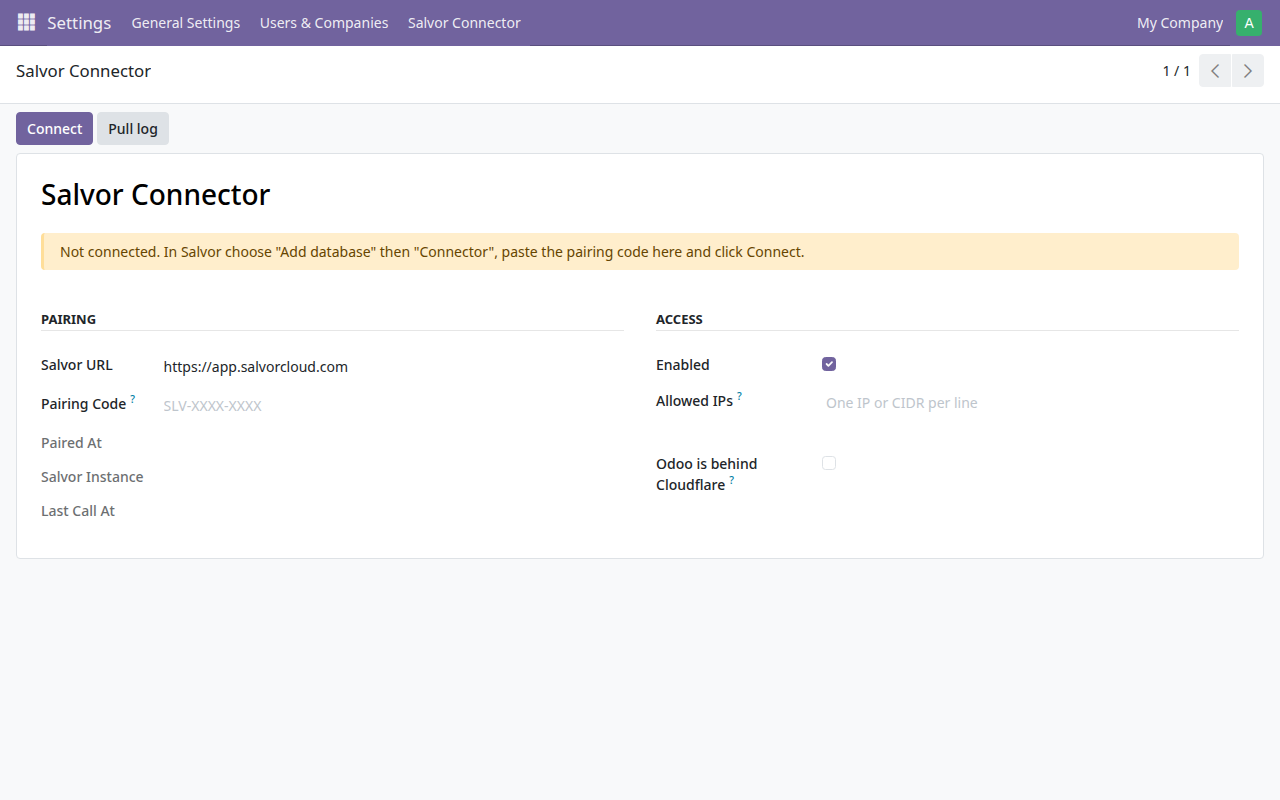
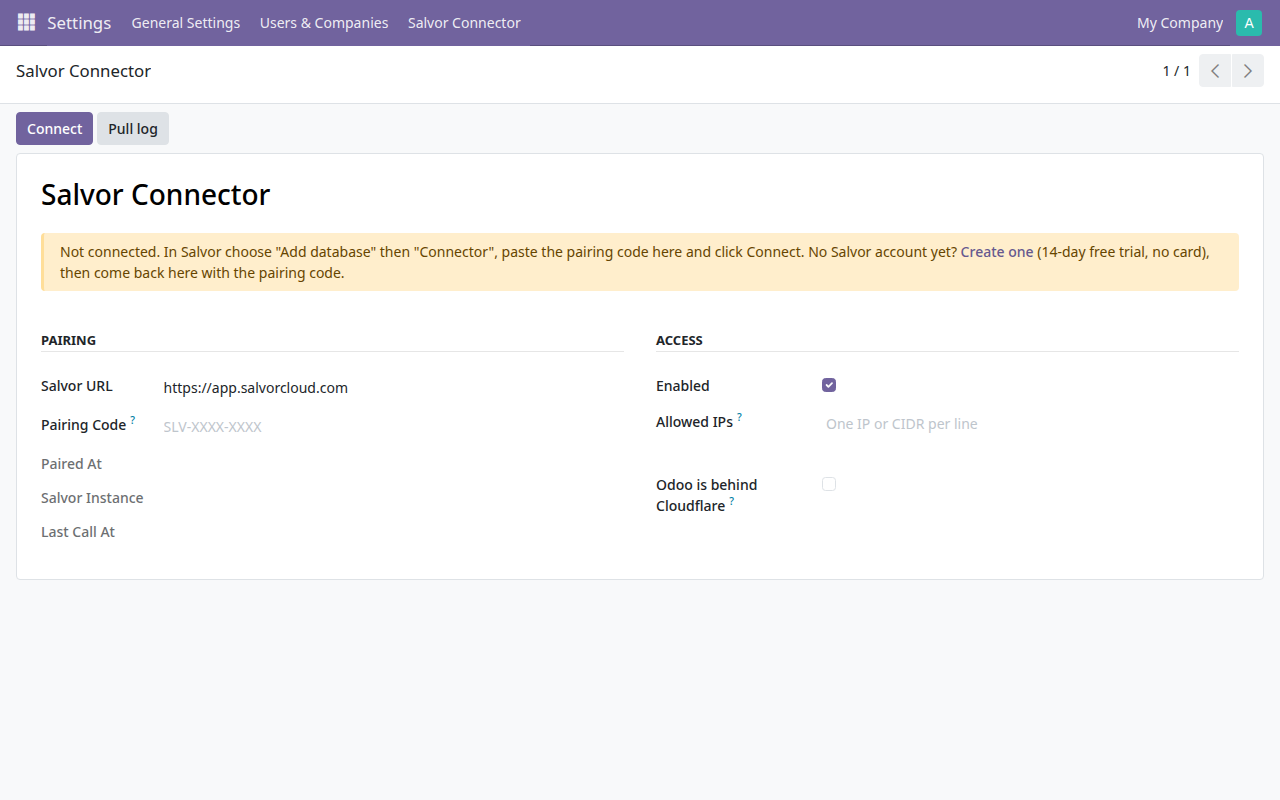
[REL] salvor_connector 2.0.14: store listing, description page, images, a sign-up sentence
No change to how the module works: the Python, controllers, background job,
security rules, data files and cron are those of 2.0.13.

- Manifest: new name ('Salvor Connector: Off-site Database Backup without the
  Master Password') and summary, the website link with a source tag, seven
  images in the store's order (a 2:1 cover first), version 19.0.2.0.14.
- static/description/index.html: new sections at the top (what the free module
  does, what a Salvor account adds, restore drills, get started, screenshots);
  the technical sections are unchanged; Odoo 16 mentions removed on this
  branch; the upgrade steps are a last 'Upgrading' item.
- Images: banner_offsite_backup.png (1280x640); screenshot_5_salvor_backups.png
  and screenshot_6_stale_alert.png (new, taken on a local test stack with demo
  data only: 'Demo Trading' / demo_main); screenshot_1_settings_unpaired.png
  taken again with the new sentence.
- Settings form, 'Not connected' notice: one added sentence with a link that
  opens in a new tab: 'No Salvor account yet? Create one (14-day free trial,
  no card), then come back here with the pairing code.' Text and link only.
- docs/release/2.0.14.md, the tags table, and the 'latest version' lines of
  SECURITY.md.

Against marketing's page text, one sentence and one caption differ: the Pull
Log is said to list 'Salvor's calls, and refusals', not 'every call ... and
every refusal' (successful status polls are not logged one by one, and
[…]

diff --git a/salvor_connector/static/description/index.html b/salvor_connector/static/description/index.html
@@ -8,28 +8,62 @@
 <section class="oe_container">
     <div class="oe_row oe_spaced">
         <div class="oe_span12">
+            <img src="banner_offsite_backup.png" alt="Off-site backups of your Odoo database, pulled by Salvor without the master password"
+                 style="max-width:100%;border-radius:6px;margin-bottom:16px;"/>
+
+            <h4 style="color:#0d9488;">What this free module does</h4>
+            <ul>
+                <li>Gives Salvor one narrow way to take a backup of <b>this one database</b>, and nothing else.</li>
+                <li>Works with <code>list_db = False</code>. Never asks for, stores or sends the master password.</li>
+                <li>Refuses every request until it is paired, then checks the access token and the caller's address
+                    on every call.</li>
+                <li>Lists Salvor's calls, and refusals, in a Pull Log inside Odoo.</li>
+                <li>On its own it takes no backup and sends no data. It needs a Salvor account.</li>
+            </ul>
+
+            <h4 style="color:#0d9488;">What your Salvor account adds</h4>
+            <ul>
+                <li>Salvor is a paid service, from $190 a year (Solo plan, billed yearly), with a 14-day free trial
+                    and no card.</li>
+                <li>Backups on your schedule, pulled from outside and stored off your server, in the EU (Amsterdam /
+                    Backblaze EU Central).</li>
+                <li>Every archive checked when it arrives: error pages and JSON answers are refused, every file in
+                    the zip is CRC-checked, the manifest is read, and a SHA-256 is recorded. A backup that fails the
+                    check is rejected, not stored.</li>
+                <li>A warning when a backup is much bigger or smaller than the one before.</li>
+                <li>An alert when backups stop arriving, by e-mail on every plan (Telegram on Partner and up).</li>
+                <li>Retention rules: keep N days, the last N copies, or both.</li>
+                <li>Every archive downloadable, in Odoo's own formats: the standard backup zip (<code>dump.sql</code>,
+                    <code>filestore/</code>, <code>manifest.json</code>) or a PostgreSQL custom-format dump. Both
+                    restore with Odoo's own tools.</li>
+            </ul>
+
+            <h4 style="color:#0d9488;">Restore drills</h4>
             <p>
-                Always use the latest version. If you are upgrading from 1.0.0, 2.0.0 or 2.0.1, pair the module
-                again after upgrading. Details:
-                <a href="https://github.com/ProjoMania/salvor_connector/blob/19.0/SECURITY.md">SECURITY.md</a>
-                (github.com/ProjoMania/salvor_connector).
+                This module takes backups. Restore drills run on your own server and need a master-password or SSH
+                connection to Salvor (SSH is on the Fleet plan).
             </p>
 
-            <img src="screenshot_2_settings_connected.png" alt="Salvor Connector settings, connected to Salvor"
-                 style="max-width:100%;border:1px solid #e5e7eb;border-radius:6px;margin-bottom:16px;"/>
+            <h4 style="color:#0d9488;">Get started</h4>
+            <ol>
+                <li>Create a Salvor account at salvorcloud.com (14-day free trial, no card).</li>
+                <li>In Salvor choose <i>Add database &rarr; Connector</i>. Salvor shows a pairing code
+                    (<code>SLV-XXXX-XXXX</code>), valid for 10 minutes, usable once.</li>
+                <li>Install this module in the database you want backed up. In Odoo open
+                    <i>Settings &rarr; Salvor Connector &rarr; Settings</i>, paste the code and click <b>Connect</b>.
+                    Developer mode is not needed.</li>
+                <li>Salvor tests the connection, and the result shows on that form.</li>
+            </ol>
+            <p>Behind Cloudflare or your own proxy: see <i>Works on hardened servers</i> below.</p>
 
-            <h4 style="color:#0d9488;">What it is</h4>
+            <h4 style="color:#0d9488;">Screenshots</h4>
             <p>
-                Salvor (<a href="https://salvorcloud.com">salvorcloud.com</a>) keeps a second, independent copy of
-                your Odoo databases off your host and alerts you from outside when backups stop. This small, free
-                module lets Salvor take that copy of <b>this one database</b>. It does not need your master
-                password, and it does not need the database manager to be switched on.
-            </p>
-            <p>
-                The module is useful only with a Salvor account. On its own it does nothing: it takes no backup by
-                itself, sends no data, and refuses every request until it is paired. <b>It does not perform restore
-                drills; it takes backups.</b> Salvor checks each archive's integrity (sha256); restore drills need a
-                master-password or SSH connection.
+                <img src="screenshot_2_settings_connected.png" alt="Connected: Salvor can now take backups of this database, and only from its allowed address" style="max-width:100%;border:1px solid #e5e7eb;border-radius:6px;margin-bottom:12px;"/>
+                <img src="screenshot_5_salvor_backups.png" alt="In Salvor: each backup with its time, size and check result" style="max-width:100%;border:1px solid #e5e7eb;border-radius:6px;margin-bottom:12px;"/>
+                <img src="screenshot_6_stale_alert.png" alt="When backups stop arriving, Salvor tells you" style="max-width:100%;border:1px solid #e5e7eb;border-radius:6px;margin-bottom:12px;"/>
+                <img src="screenshot_1_settings_unpaired.png" alt="Before pairing: paste the code from Salvor and click Connect" style="max-width:100%;border:1px solid #e5e7eb;border-radius:6px;margin-bottom:12px;"/>
+                <img src="screenshot_3_pull_log.png" alt="Pull Log: the calls Salvor made to this database, and the refusals" style="max-width:100%;border:1px solid #e5e7eb;border-radius:6px;margin-bottom:12px;"/>
+                <img src="screenshot_4_settings_menu.png" alt="Find it under Settings &gt; Salvor Connector" style="max-width:100%;border:1px solid #e5e7eb;border-radius:6px;margin-bottom:12px;"/>
             </p>
 
             <h4 style="color:#0d9488;">The problem it solves</h4>
@@ -58,16 +92,6 @@
                     to delete the file.</li>
             </ol>
             <p>Your server never opens a connection to Salvor for a backup. Salvor asks; the module answers or refuses.</p>
-
-            <h4 style="color:#0d9488;">Screenshots</h4>
-            <p>
-                <img src="screenshot_1_settings_unpaired.png" alt="Settings before pairing: Salvor URL and pairing code"
-                     style="max-width:100%;border:1px solid #e5e7eb;border-radius:6px;margin-bottom:12px;"/>
-                <img src="screenshot_3_pull_log.png" alt="Pull Log: every call Salvor made and every refusal"
-                     style="max-width:100%;border:1px solid #e5e7eb;border-radius:6px;margin-bottom:12px;"/>
-                <img src="screenshot_4_settings_menu.png" alt="Settings menu with the Salvor Connector entry"
-                     style="max-width:100%;border:1px solid #e5e7eb;border-radius:6px;margin-bottom:12px;"/>
-            </p>
 
             <h4 style="color:#0d9488;">What the token can do</h4>
             <p>With a valid token, from an allowed IP address, while the Connector is enabled:</p>
@@ -166,11 +190,11 @@
 
             <h4 style="color:#0d9488;">Requirements</h4>
             <ul>
-                <li>Self-hosted Odoo 16, 17, 18, 19 or 20 <b>on Linux</b> (Community or Enterprise). Not Odoo Online;
+                <li>Self-hosted Odoo 17, 18, 19 or 20 <b>on Linux</b> (Community or Enterprise). Not Odoo Online;
                     Odoo.sh is not a supported target.</li>
                 <li><code>pg_dump</code> on the Odoo server, same or newer major version than PostgreSQL.</li>
                 <li>Odoo reachable over HTTPS from Salvor, with <code>web.base.url</code> set to its public
-                    <code>https://</code> address. On Odoo 16, 17 and 18 the URL must lead to exactly one database.</li>
+                    <code>https://</code> address. On Odoo 17 and 18 the URL must lead to exactly one database.</li>
                 <li>Behind Cloudflare: switch on <b>Odoo is behind Cloudflare</b> in the module's settings (off by
                     default), or restore visitor addresses at your own proxy. With the switch on, the address check
                     trusts Cloudflare's <code>CF-Connecting-IP</code> header; the access token is required either way.
@@ -182,6 +206,13 @@
                 <li>Free disk in the Odoo data directory: database size (+ filestore for the zip format) + 256 MiB.</li>
                 <li>Each download piece is a normal Odoo request bound by <code>limit_time_real</code>; on a link slower
                     than about 2 MiB/s, raise it.</li>
+                            <li><b>Upgrading:</b> always run the latest version. To upgrade, install the new version (from this
+                    page or from your branch on GitHub), restart Odoo, then upgrade the module (<i>Apps &gt; Upgrade</i>,
+                    or <code>-u salvor_connector</code>). If you are upgrading from 1.0.0, 2.0.0 or 2.0.1, also pair
+                    again afterwards: take a new pairing code in Salvor and click <b>Connect</b> on the module's settings
+                    form. Salvor does not work with versions below 2.0.2. Details:
+                    <a href="https://github.com/ProjoMania/salvor_connector/blob/19.0/SECURITY.md">SECURITY.md</a>
+                    (github.com/ProjoMania/salvor_connector).</li>
             </ul>
 
             <p>

diff --git a/salvor_connector/__manifest__.py b/salvor_connector/__manifest__.py
@@ -1,10 +1,10 @@
 {
-    "name": "Salvor Connector",
-    "summary": "Back up this Odoo database to Salvor without the master password",
-    "version": "19.0.2.0.13",
+    "name": "Salvor Connector: Off-site Database Backup without the Master Password",
+    "summary": "Automatic backup of this database, off-site and with verification, through a Salvor account (free trial). No master password; works with list_db = False.",
+    "version": "19.0.2.0.14",
     "category": "Administration/Tools",
     "author": "ProjoMania",
-    "website": "https://salvorcloud.com",
+    "website": "https://salvorcloud.com/?utm_source=odoo-apps&utm_medium=marketplace&utm_campaign=connector-listing",
     "support": "support@salvorcloud.com",
     "license": "LGPL-3",
     "depends": ["base"],
@@ -16,7 +16,10 @@
         "views/salvor_connector_config_views.xml",
     ],
     "images": [
+        "static/description/banner_offsite_backup.png",
         "static/description/screenshot_2_settings_connected.png",
+        "static/description/screenshot_5_salvor_backups.png",
+        "static/description/screenshot_6_stale_alert.png",
         "static/description/screenshot_1_settings_unpaired.png",
         "static/description/screenshot_3_pull_log.png",
         "static/description/screenshot_4_settings_menu.png",

diff --git a/docs/release/2.0.14.md b/docs/release/2.0.14.md
@@ -1,0 +1,40 @@
+# Salvor Connector 2.0.14
+
+**No change to how the module works.** The backup, pairing, token and allowlist code is the code of
+2.0.13, byte for byte. This release changes what the store page and the settings form say.
+
+Upgrading from 2.0.13 is optional. If you are on anything older, read `docs/release/2.0.13.md` first.
+
+## What changed
+
+- **Store listing.** New module title ("Salvor Connector: Off-site Database Backup without the Master
+  Password") and summary, so the module can be found by what it does; the store searches the title and
+  the summary only. The menu, the form title and the views keep the name "Salvor Connector".
+- **Description page.** The opening line about the Pull Log now says what the technical section says
+  (Salvor's calls and refusals, not "every" one). New sections at the top: what this free module does, what a Salvor account adds
+  (Salvor is a paid service with a free trial), where restore drills run, and how to get started. The
+  technical sections are unchanged. The Odoo 16 mentions are gone from this branch's page (16.0 has its
+  own branch), and the upgrade steps moved into a last "Upgrading" item.
+- **Images.** A 2:1 cover and two new screenshots (the backups of a database in Salvor, and the e-mail
+  Salvor sends when backups stop arriving). `screenshot_1_settings_unpaired.png` was taken again.
+- **Settings form, before pairing.** The "Not connected" notice now ends with: "No Salvor account yet?
+  Create one (14-day free trial, no card), then come back here with the pairing code." "Create one" is
+  a link to salvorcloud.com that opens in a new tab. The module itself still makes no call to that
+  address: it is a link a person may click.
+- **Website field.** The manifest's `website` carries a source tag
+  (`?utm_source=odoo-apps&utm_medium=marketplace&utm_campaign=connector-listing`), and the link in the
+  settings form carries `utm_source=odoo-module`. Both lead to https://salvorcloud.com/ and carry a tag
+  that says where the visit came from (the store listing or the module's settings form), which Salvor's
+  site passes on to sign-up. Nothing about your Odoo is in them.
+
+## What did not change
+
+Python, controllers, the background job, security rules, data files, cron, the protocol, the token and
+the IP allowlist. `git diff 19.0-2.0.13 19.0-2.0.14 -- salvor_connector/*.py salvor_connector/controllers
+salvor_connector/models salvor_connector/security salvor_connector/data` shows only the manifest's
+`name`, `summary`, `version`, `website` and `images`.
+
+## Tests
+
+The module's test suite passes on Odoo 17, 18, 19 and 20 with this release (the counts are in the
+release commit message).

diff --git a/SECURITY.md b/SECURITY.md
@@ -36,7 +36,7 @@ affected commits per branch: `docs/release/TAGS.md`. Severity: High (CVSS 3.1 8.
 | Impact | The archive's content reaches `psql`, which runs backslash meta-commands: `\!` runs OS commands as the Odoo service user, `\c` connects to other databases the Odoo role can reach. The archive's SQL also runs with the rights of the role that owns the live database. |
 
 ### What to do
-1. Upgrade to the latest version (2.0.13; 2.0.4 or later fixes the issue) on every database where the module is installed: pull your branch
+1. Upgrade to the latest version (2.0.14; 2.0.13 on `16.0`; 2.0.4 or later fixes the issue) on every database where the module is installed: pull your branch
    (`16.0`, `17.0`, `18.0`, `19.0` or `20.0`), **restart Odoo** (it keeps running the old Python code until it
    is restarted), then upgrade the module (`-u salvor_connector`, or *Upgrade* in Apps).
 2. Until you have upgraded, keep **Allow restore drills** off (Settings → Salvor Connector → Settings
@@ -63,13 +63,13 @@ GitHub advisory: [GHSA-28rv-398c-r5xx](https://github.com/ProjoMania/salvor_conn
 | Impact | Memory and CPU use on the Odoo server from large request bodies (denial of service). No data access. |
 
 ### What to do
-Upgrade to the latest version (2.0.13; 2.0.11 or later has the complete fix): pull your branch, restart
+Upgrade to the latest version (2.0.14; 2.0.13 on `16.0`; 2.0.11 or later has the complete fix): pull your branch, restart
 Odoo, `-u salvor_connector`. Independently of the module, a reverse proxy that limits request bodies
 (nginx `client_max_body_size`) and restricts `/salvor/` to Salvor's IP addresses also contains it.
 
 ## 2.0.12: the IP allowlist trusted `CF-Connecting-IP` by default (changed in 2.0.13)
 
-No advisory number is assigned to this. **Do not use 2.0.12; use 2.0.13.**
+No advisory number is assigned to this. **Do not use 2.0.12; use 2.0.13 or later.**
 
 | | |
 |---|---|

diff --git a/docs/release/TAGS.md b/docs/release/TAGS.md
@@ -30,6 +30,7 @@ the push log (`STATUS.md` deploy rows, GitHub "Activity") before tagging.
 | 2.0.11 (`NN.0.2.0.11`) | `eae9536` → `17.0-2.0.11` | `8b0021e` → `18.0-2.0.11` | `e62697b` → `19.0-2.0.11` | `07c857e` → `20.0-2.0.11` | fixed; chunked + Content-Length, no-database path, 16.0 uninstall (`d738402` → `16.0-2.0.11` on `16.0`) |
 | 2.0.12 (`NN.0.2.0.12`) | `8636f8a` → `17.0-2.0.12` | `f70d57b` → `18.0-2.0.12` | `c2263a0` → `19.0-2.0.12` | `8af7f53` → `20.0-2.0.12` | **superseded: do not use.** Cloudflare header trusted by default; pairing shows a false error (`d62d724` → `16.0-2.0.12` on `16.0`). Use 2.0.13 |
 | 2.0.13 (`NN.0.2.0.13`) | 2.0.13 commit on `17.0` → `17.0-2.0.13` | on `18.0` → `18.0-2.0.13` | on `19.0` → `19.0-2.0.13` | on `20.0` → `20.0-2.0.13` | Cloudflare header only with the *Odoo is behind Cloudflare* switch (off by default); pairing and rotation fixes (`16.0-2.0.13` on `16.0`) |
+| 2.0.14 (`NN.0.2.0.14`) | 2.0.14 commit on `17.0` → `17.0-2.0.14` | on `18.0` → `18.0-2.0.14` | on `19.0` → `19.0-2.0.14` | on `20.0` → `20.0-2.0.14` | store listing, description page, images and one sentence with a link on the settings form; no change to the module's code (17.0 to 20.0 only; 16.0 stays on 2.0.13) |
 
 The 2.0.13 hashes are the branch heads after the 2.0.13 commit (reported with the commit; this file
 cannot contain its own commit's hash).
